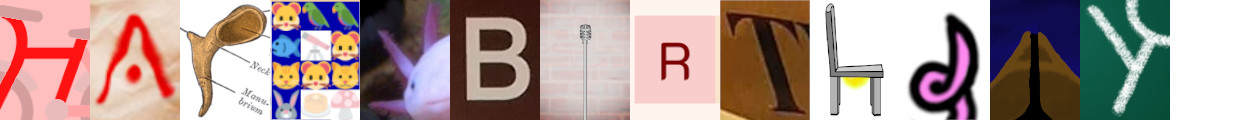
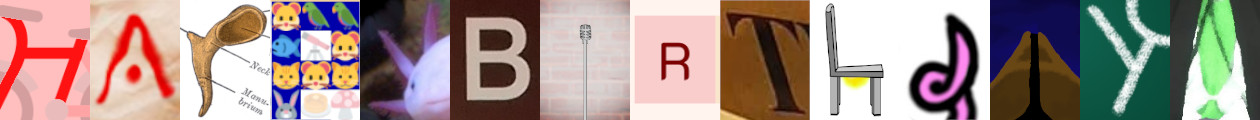
Added a bonus puzzle

Changed region(s): [[0.9286, 0.0, 1.0, 1.0]]

diff --git a/main.js b/main.js
@@ -20,6 +20,12 @@ $(function () {
     return stuff;
   }
 
+  function gup(name) {
+    let regex = new RegExp("[\\?&]" + name + "=([^&#]*)");
+    let results = regex.exec(window.location.href);
+    return results === null ? "" : decodeURIComponent(results[1]);
+  }
+
   // ################################
   // Scenes
 
@@ -655,13 +661,34 @@ $(function () {
     'ผ', 'ฝ', 'พ', 'ฟ', 'ม', 'ย', 'ร',
     'ล', 'ว', 'ส', 'ห', 'อ',
   ];
+  const P13_QUOTES = [
+    'พวกเราก็ไม่พอใจนะครับ<br>สำหรับ<br>บุคลากรทางการแพทย์ที่<br><strong>ไม่เฝ้าระวังตัวเอง</strong>',
+    'คนที่<br><strong>ไม่ใช่แพทย์</strong><br>ไม่ใช่ผู้เชี่ยวชาญ<br> ... <br>ขอให้<br><strong>สงบปากสงบคำ</strong><br>เพราะไม่เกิดประโยชน์',
+    'เชื้อโควิด<br><strong>กระจอกงอกง่อย</strong>',
+    'เห็นหน้าคนโพสต์<br>เลยเข้าใจแล้วว่า<br><strong>หมาไม่เข้าใจคนอ่ะ</strong>',
+    'ของขวัญปีใหม่ปีนี้<br>ถือเป็นครั้งแรกที่คนไทย<br>ทุกครอบครัว จะได้ทราบ<br><strong>ชื่อ เบอร์โทร</strong><br>และช่องทางให้คำปรึกษา<br>จากหมอประจำตัว<br><strong>3 คน</strong>',
+    '[ให้คะแนนตัวเอง]<br><strong>10 เต็ม 10 ครับ</strong>',
+  ];
+  const P13_INTERVAL = 3000;
 
   PUZZLES[13] = {
     init: function () {
       setKeys(THAI_KEYS); 
-      PUZZLE_SCREEN.append(
-        $('<div class=fill>')
-        .css('background', 'url("img/mystery-person.jpg")'));
+      let timestamp = Date.now();
+      let bg = $('<div id=p13-bg class=fill>').appendTo(PUZZLE_SCREEN);
+      $('<div id=p13-left>').appendTo(bg);
+      $('<div id=p13-right class=centerize>').appendTo(bg)
+        .append($('<div id=p13-quote>').data('ts', timestamp));
+      let quoteId = -1;
+      let updateQuote = function () {
+        quoteId++;
+        if (quoteId >= P13_QUOTES.length) quoteId = 0;
+        if ($('#p13-quote').length && $('#p13-quote').data('ts') == timestamp) {
+          $('#p13-quote').html(P13_QUOTES[quoteId]);
+          setTimeout(updateQuote, P13_INTERVAL);
+        }
+      };
+      updateQuote();
     },
     onKey: function (key) {
       // Alternative answers
@@ -671,7 +698,7 @@ $(function () {
         for (let i = 0; i < 7; i++) {
           sum += (answer.charCodeAt(i) - 3585) * Math.pow(31, i);
         }
-        if (sum % 280219 === 273794) {
+        if (sum % (+gup('passcode')) === 273794) {
           showCover('correct', 1000, winPuzzle);
           return true;
         }
@@ -737,27 +764,26 @@ $(function () {
   $(window).resize(resizeScreen);
 
   const imageList = [
-    'img/menu.jpg',
-    'img/emoji/legends.png',
+    'img/boom.png',
+    'img/box.jpg',
     'img/emoji/1f6b2-parts.png',
-    'img/pigpen.jpg',
-    'img/middle.jpg',
+    'img/emoji/legends.png',
+    'img/emoji/pairs.png',
     'img/emoji/pets.png',
+    'img/hangman.png',
+    'img/lava.png',
+    'img/menu.jpg',
+    'img/middle.jpg',
     'img/mystery-animal.jpg',
     'img/mystery-location.jpg',
-    'img/emoji/pairs.png',
-    'img/wall.jpg',
-    'img/box.jpg',
-    'img/triple.jpg',
+    'img/mystery-person.jpg',
+    'img/paper_3_cyan.png',
+    'img/pigpen.jpg',
     'img/slices-v2.jpg',
-    'img/boom.png',
-    'img/lava.png',
-    'img/hangman.png',
-    //'img/mystery-person.jpg',
+    'img/triple.jpg',
+    'img/wall.jpg',
   ];
   let numResourcesLeft = imageList.length;
-  numResourcesLeft++;   // Audio
-  $('#pane-loading').text('Loading resources (' + numResourcesLeft + ' left)');
 
   function decrementPreload () {
     numResourcesLeft--;
@@ -787,5 +813,8 @@ $(function () {
     });
   };
   audioRequest.send();
+  numResourcesLeft++;
+
+  $('#pane-loading').text('Loading resources (' + numResourcesLeft + ' left)');
 
 });

diff --git a/style.css b/style.css
@@ -584,3 +584,27 @@ div.scene, div.cover {
   left: 75px; top: 10px; width: 300px; height: 300px;
   background: url('img/hangman.png');
 }
+
+/* ################ */
+/* puzzle 13 */
+
+#p13-bg {
+  background: black;
+}
+#p13-left {
+  position: absolute;
+  left: 0; top: 0; height: 320px; width: 200px;
+  background: url('img/mystery-person.jpg');
+}
+#p13-right {
+  position: absolute;
+  left: 200px; top: 0; height: 320px; width: 250px;
+}
+#p13-quote {
+  text-align: center;
+  color: white;
+  font-size: 90%;
+}
+#p13-quote strong {
+  font-size: 120%;
+}
